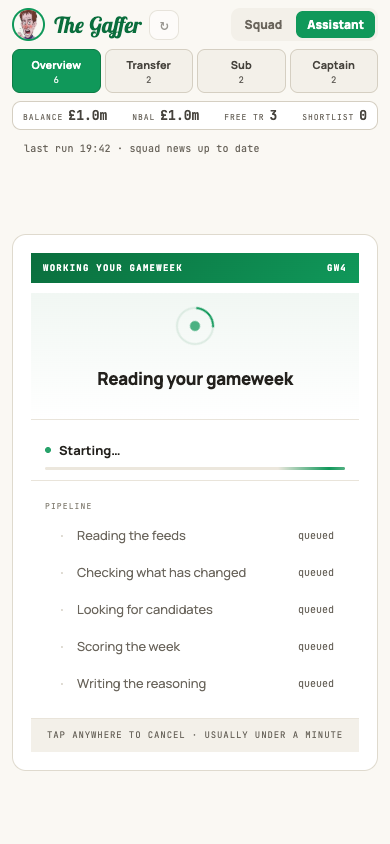
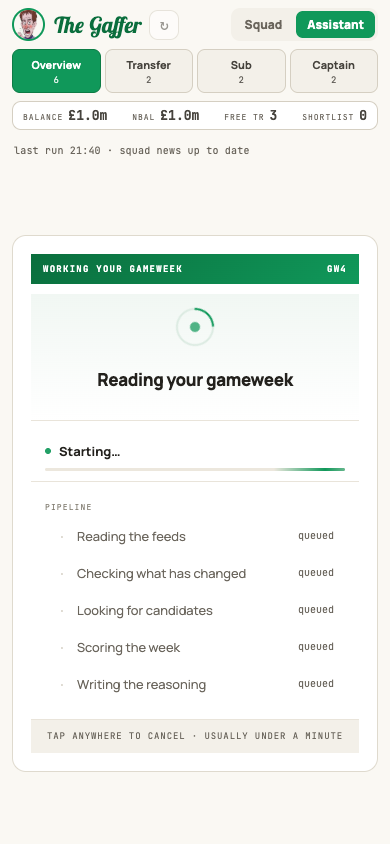
The shirt name is the name the whole app shows
Every screen read FPL's second name. The shirt name is what FPL itself
prints and what the manager sees in his own app — and the difference is not
cosmetic: "Junqueira de Jesus" overflowed a call card this afternoon so the
incoming player could not be seen, and matched the wrong player in a
screenshot this evening.

The world's player now carries `name`, fed from the shirt name with the
second name as a fallback, and every display reads it: the pitch, the stat
table, the head-to-head card, the Overview's rows and markers, the news
token, the editorial and the model's own reasoning input.

**Renamed rather than quietly repurposed.** A field called `surname` holding
a shirt name is the same shape of lie as a picks-gameweek on a squad that
came off a screen, and this project has been bitten by that twice today.
`PlayerRow.surname` keeps its name, because that is the database column.

Two tests, both on the case that matters — a player whose two names differ,
because for most players they agree and any test would pass. The Landing
screenshots are regenerated, since they are taken from the real screens.

diff --git a/apps/client/src/screens/Assistant/HeadToHead.tsx b/apps/client/src/screens/Assistant/HeadToHead.tsx
@@ -194,7 +194,7 @@ export function HeadToHead({
                   }}
                   type="button"
                 >
-                  <span className={styles.pickerName}>{p.surname}</span>
+                  <span className={styles.pickerName}>{p.name}</span>
                   <span className={styles.pickerMeta}>
                     {p.clubShortName} · {formatMoney(p.nowCostTenths)} · xPts {p.projectedPoints.toFixed(1)}
                   </span>
@@ -305,7 +305,7 @@ function Keep({
     <div className={styles.h2h}>
       <div className={`${styles.card} ${styles.keepCard}`} data-testid="keep-card">
         <span className={styles.keepEyebrow}>No change · nothing to do</span>
-        <span className={styles.keepName}>{out.surname}</span>
+        <span className={styles.keepName}>{out.name}</span>
         <span className={styles.keepMeta}>
           {out.clubShortName} · {out.position}
         </span>
@@ -364,7 +364,7 @@ function Side({ player, direction, onChange }: { player: WorldPlayer; direction:
     <div className={direction === 'out' ? styles.side : styles.sideRight}>
       <span className={styles.dir}>{direction === 'out' ? '▼ OUT' : 'IN ▲'}</span>
       <span data-testid={`${direction}-name`} className={styles.name}>
-        {player.surname}
+        {player.name}
       </span>
       <span className={styles.meta}>
         {player.clubShortName} · {player.position} · {formatMoney(player.nowCostTenths)}
@@ -423,8 +423,8 @@ function Explained({ shown, gameweekId }: { shown: Shown; gameweekId: number }) 
 
   return (
     <div className={styles.explain}>
-      {side('Out', shown.out.surname, b.out)}
-      {side('In', shown.into.surname, b.in)}
+      {side('Out', shown.out.name, b.out)}
+      {side('In', shown.into.name, b.in)}
       <span>Weights: {b.weights.map((w) => w.toFixed(2)).join(' / ')}</span>
       <span>
         Net {formatNet(b.net)} · points hit {String(b.pointsHit)} · k {b.k.toFixed(1)} ({b.kLabel})

diff --git a/tests/world/assemble.test.ts b/tests/world/assemble.test.ts
@@ -145,3 +145,34 @@ describe('the header, and what the world does not carry', () => {
     expect(world()).not.toHaveProperty('benchPoints')
   })
 })
+
+describe('F1-AC-10 · the name on screen is the name FPL prints', () => {
+  it('F1-AC-10: a player whose shirt name differs from his second name shows the shirt name', () => {
+    // **The trigger is the mismatch**, which is the only case that matters —
+    // for most players the two are identical and any test would pass. João
+    // Pedro's second name is "Junqueira de Jesus", which overflowed a call card
+    // on 2026-09-15 and matched the wrong player in a screenshot the same
+    // evening. A test using a player where they agree proves nothing.
+    const shown = assembleWorld({
+      gameweek, lastScored: null, snapshot, clubs, fixtures, projections, states,
+      players: [
+        { id: 101, clubId: 2, position: 'FWD', firstName: 'João', surname: 'Junqueira de Jesus', shirtName: 'João Pedro', shirtNumber: 9 },
+      ],
+      squad: [{ playerId: 101, isStarter: true, benchOrder: null, isCaptain: false, isVice: false }],
+    })
+
+    expect(shown.players[0]?.name).toBe('João Pedro')
+  })
+
+  it('F1-AC-10: a row read before the shirt name existed falls back to the second name', () => {
+    const shown = assembleWorld({
+      gameweek, lastScored: null, snapshot, clubs, fixtures, projections, states,
+      players: [
+        { id: 101, clubId: 2, position: 'FWD', firstName: 'Erling', surname: 'Haaland', shirtName: '', shirtNumber: 9 },
+      ],
+      squad: [{ playerId: 101, isStarter: true, benchOrder: null, isCaptain: false, isVice: false }],
+    })
+
+    expect(shown.players[0]?.name).toBe('Haaland')
+  })
+})

diff --git a/apps/client/src/screens/Assistant/AssistantScreen.tsx b/apps/client/src/screens/Assistant/AssistantScreen.tsx
@@ -394,7 +394,7 @@ export function AssistantScreen({
       : undefined
 
   const clearedRows: ClearedRow[] = here.flatMap((s): ClearedRow[] => {
-    const title = `${SHAPE_TITLE[s.call.shape]}: ${s.out.surname} → ${s.into.surname}`
+    const title = `${SHAPE_TITLE[s.call.shape]}: ${s.out.name} → ${s.into.name}`
     const decided = decisions.decisions[s.key]
     if (decided !== undefined) return [{ key: s.key, title, state: decided }]
     if (decisions.reopened[s.key] !== undefined) return [{ key: s.key, title, state: 'reopened' as const }]
@@ -675,7 +675,7 @@ export function AssistantScreen({
             world={world}
             week={week}
             decisions={decisions.decisions}
-            nameOf={(id) => players.get(id)?.surname ?? 'A player'}
+            nameOf={(id) => players.get(id)?.name ?? 'A player'}
             onOpen={(call) => {
               setTab(call.category)
               setOpenedKey(call.key)
@@ -749,7 +749,7 @@ export function AssistantScreen({
             for itself from an empty list. */}
         {showDiff ? (
           <DiffSheet
-            rows={diffRows(world.calls, (id) => players.get(id)?.surname ?? 'A player')}
+            rows={diffRows(world.calls, (id) => players.get(id)?.name ?? 'A player')}
             untouched={world.calls.length - diffRows(world.calls, () => '').length}
             onClose={() => setShowDiff(false)}
           />

diff --git a/apps/client/src/calls/view.ts b/apps/client/src/calls/view.ts
@@ -60,7 +60,7 @@ export const rowsFor = (out: WorldPlayer, into: WorldPlayer): EvaluationRow[] =>
 
 /** A player's price signal for WATCH, with FPL's lock read against the clock here. */
 const priceSignalFor = (p: WorldPlayer) => ({
-  name: p.surname,
+  name: p.name,
   likelihoodTonight: p.priceLikelihoodTonight ?? null,
   locked: p.priceLockedUntil != null && Date.parse(p.priceLockedUntil) > Date.now(),
 })
@@ -185,7 +185,7 @@ export function recomputeTransfer(call: WorldCall, out: WorldPlayer, into: World
   })
 
   const rows = rowsFor(out, into)
-  const reasoning = templateReasoning(rows, out.surname, into.surname)
+  const reasoning = templateReasoning(rows, out.name, into.name)
   // The swapped pair is its own transfer, so WATCH is read for it afresh.
   const watchReason = watchCurrent ? priceWatch(priceSignalFor(out), priceSignalFor(into)) : null
   // Every value here is the engine's output or a published figure it was given.
@@ -337,7 +337,7 @@ export function clearVerdict(
     .filter((c) => c.category === 'transfer')
     .map((c) => players.get(c.outPlayerId))
     .filter((p): p is WorldPlayer => p !== undefined)
-    .map((p) => p.surname)
+    .map((p) => p.name)
 
   if (spokenFor.length === 0) return fallback
 

diff --git a/apps/server/src/world/assemble.ts b/apps/server/src/world/assemble.ts
@@ -42,7 +42,15 @@ export type WorldFixture = {
 
 export type WorldPlayer = {
   playerId: number
-  surname: string
+  /**
+   * **What FPL prints on the shirt**, which is what every screen shows and what
+   * the manager sees in the FPL app itself. Not the second name: that is
+   * "Junqueira de Jesus" for João Pedro and his full family name for Calafiori,
+   * which overflowed a card on 2026-09-15 and matched the wrong player in a
+   * screenshot the same evening. Falls back to the surname where FPL has not
+   * been read since the column existed.
+   */
+  name: string
   shirtNumber: number | null
   clubId: number
   clubShortName: string
@@ -236,7 +244,7 @@ export function assembleWorld(parts: WorldParts): World {
 
     return {
       playerId: player.id,
-      surname: player.surname,
+      name: player.shirtName || player.surname,
       shirtNumber: player.shirtNumber,
       clubId: player.clubId,
       clubShortName: clubById.get(player.clubId)?.shortName ?? '',

diff --git a/apps/client/src/calls/week.ts b/apps/client/src/calls/week.ts
@@ -90,7 +90,7 @@ function tallyOf(live: WorldCall[]): Tally {
 function verdictFor(player: WorldPlayer, movedPrice: boolean): { verdict: string; short: string } {
   const gate = availabilityFor(player)
   // The full surname, never the slot-truncated form: this is prose, not a pitch slot.
-  const name = player.surname
+  const name = player.name
   const percent = player.chanceOfPlayingNextRound
 
   if (!gate.eligible) {
@@ -181,7 +181,7 @@ export function weekOf(world: World, decisions: Record<string, DecisionState>): 
     const player = byId.get(f.playerId)
     if (!player) return []
     const { verdict, short } = verdictFor(player, f.fields.length === 1 && f.fields[0] === 'price')
-    return [{ playerId: f.playerId, surname: player.surname, verdict, short }]
+    return [{ playerId: f.playerId, surname: player.name, verdict, short }]
   })
 
   return {

diff --git a/apps/client/src/screens/Squad/StatTable.tsx b/apps/client/src/screens/Squad/StatTable.tsx
@@ -75,7 +75,7 @@ export function StatTable({ players }: { players: WorldPlayer[] }) {
                             both lines instead of hanging off the top one. */}
                         <span className={styles.nameCell}>
                           <span className={styles.nameLines}>
-                            <span className={styles.nameRow}>{displaySurname(p.surname)}</span>
+                            <span className={styles.nameRow}>{displaySurname(p.name)}</span>
                             <span className={styles.club}>{p.clubShortName}</span>
                           </span>
                           {!p.isStarter && p.benchOrder !== null ? (

diff --git a/tests/e2e/fixture.ts b/tests/e2e/fixture.ts
@@ -17,9 +17,9 @@ export type Player = Record<string, unknown>
 
 const CLUBS = ['ARS', 'AVL', 'BOU', 'BRE', 'BHA', 'CHE', 'CRY', 'EVE', 'FUL', 'LIV', 'MCI', 'MUN', 'NEW', 'NFO', 'TOT', 'WHU', 'WOL', 'LEE', 'BUR', 'SUN']
 
-export const player = (id: number, surname: string, position: string, projection: number, extra: Player = {}): Player => ({
+export const player = (id: number, name: string, position: string, projection: number, extra: Player = {}): Player => ({
   playerId: id,
-  surname,
+  name,
   shirtNumber: id % 30,
   clubId: id,
   // Real codes: `kitFor` keys off them, and the Landing shots are taken from

diff --git a/tests/client/scenario.test.ts b/tests/client/scenario.test.ts
@@ -12,9 +12,9 @@ import { describe, expect, it } from 'vitest'
 import type { DecisionState, World, WorldCall, WorldPlayer } from '../../apps/client/src/api'
 import { callsUnder, scenarioFor } from '../../apps/client/src/calls/scenario'
 
-const player = (id: number, surname: string, extra: Partial<WorldPlayer> = {}): WorldPlayer => ({
+const player = (id: number, name: string, extra: Partial<WorldPlayer> = {}): WorldPlayer => ({
   playerId: id,
-  surname,
+  name,
   shirtNumber: null,
   clubId: id,
   clubShortName: `C${String(id)}`,

diff --git a/tests/world/calls.test.ts b/tests/world/calls.test.ts
@@ -146,7 +146,7 @@ describe('What the world carries for the calls', () => {
   it('F3-AC-23: a player named from outside the squad is carried as a candidate, with his figures', () => {
     const [gross] = world().candidates
     expect(gross?.playerId).toBe(124)
-    expect(gross?.surname).toBe('Groß')
+    expect(gross?.name).toBe('Groß')
     expect(gross?.isStarter).toBe(false)
     expect(gross?.nowCostTenths).toBe(56)
   })

diff --git a/apps/client/src/screens/Squad/parts.tsx b/apps/client/src/screens/Squad/parts.tsx
@@ -180,7 +180,7 @@ export function PlayerSlot({ player, tight = false }: { player: WorldPlayer; tig
         <AvailabilityMarker player={player} />
         <Armband player={player} />
       </div>
-      <div className={styles.surname}>{displaySurname(player.surname)}</div>
+      <div className={styles.surname}>{displaySurname(player.name)}</div>
       <FixturePill fixtures={player.fixtures} onPitch />
     </div>
   )

diff --git a/tests/client/calls.test.ts b/tests/client/calls.test.ts
@@ -23,9 +23,9 @@ import {
   watchFreshness,
 } from '../../apps/client/src/calls/view'
 
-const player = (id: number, surname: string, projection: number, extra: Partial<WorldPlayer> = {}): WorldPlayer => ({
+const player = (id: number, name: string, projection: number, extra: Partial<WorldPlayer> = {}): WorldPlayer => ({
   playerId: id,
-  surname,
+  name,
   shirtNumber: null,
   clubId: id,
   clubShortName: 'XXX',
